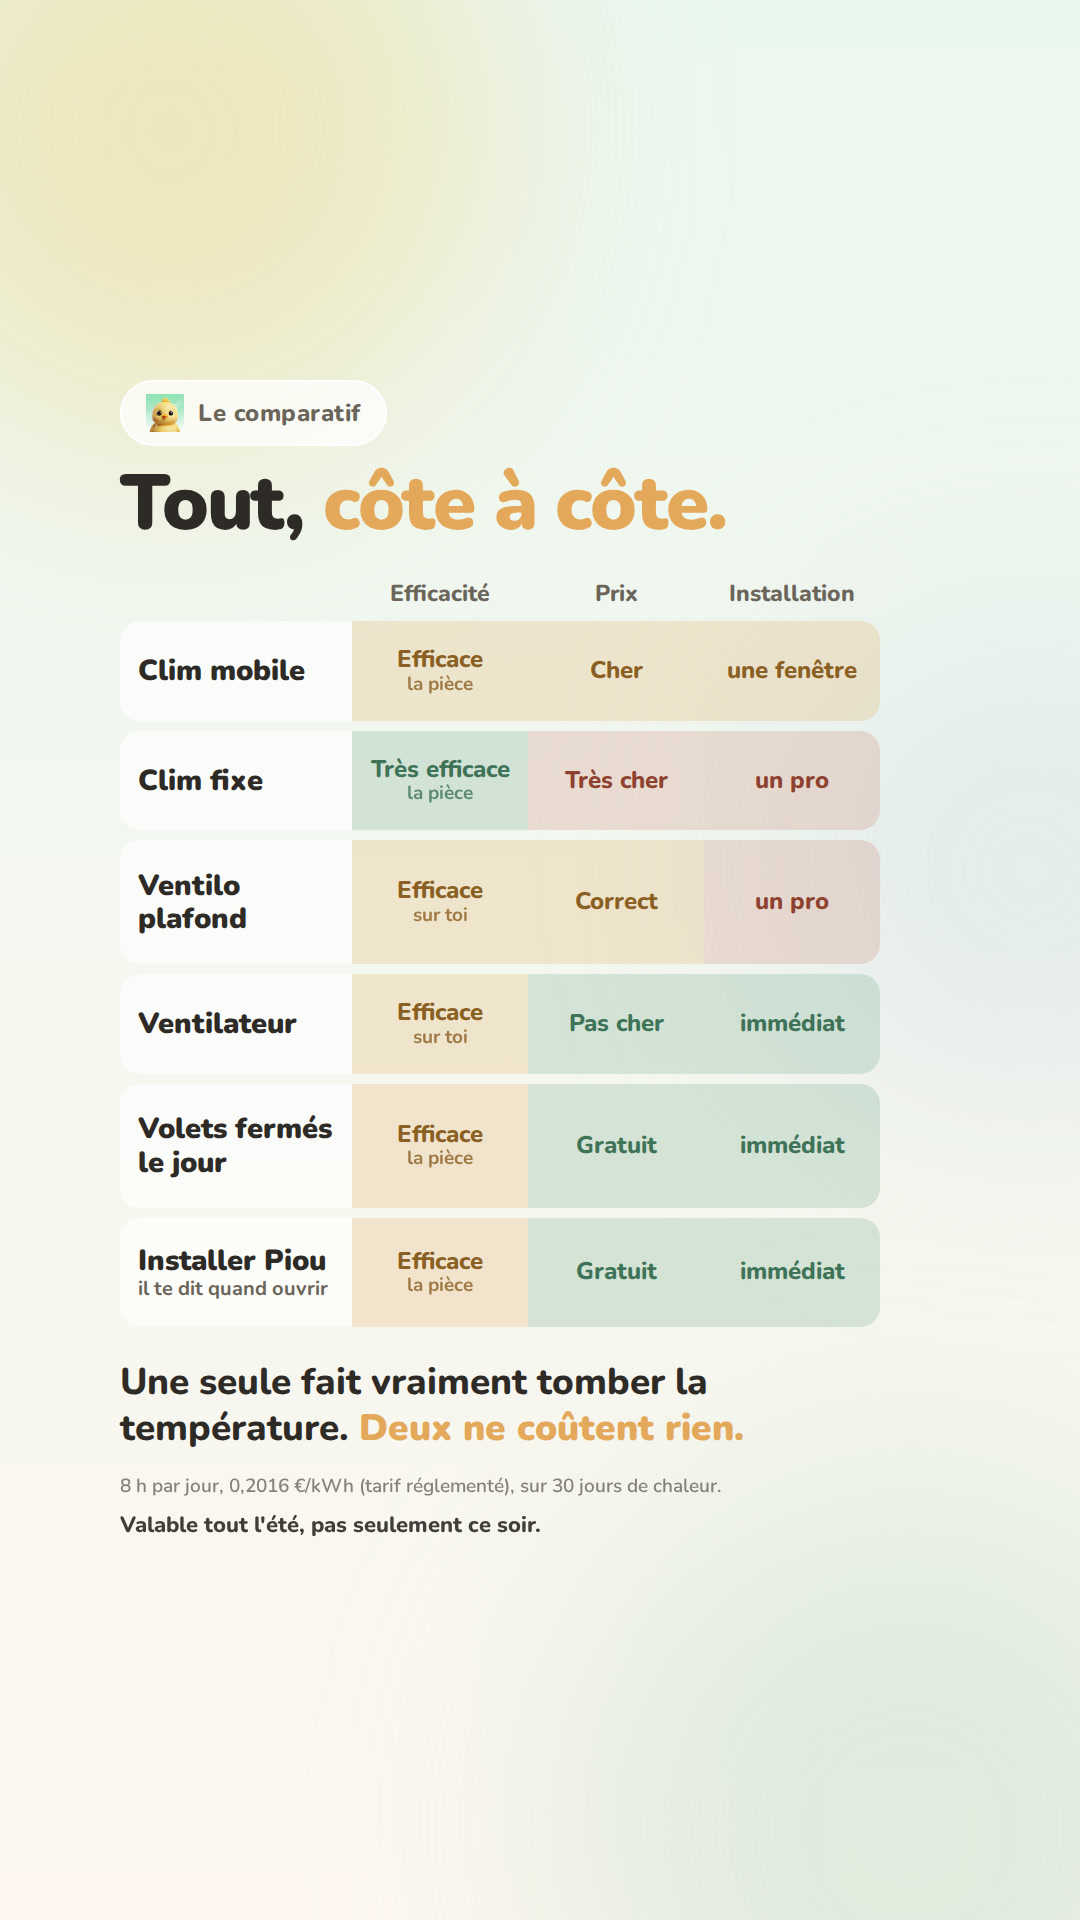
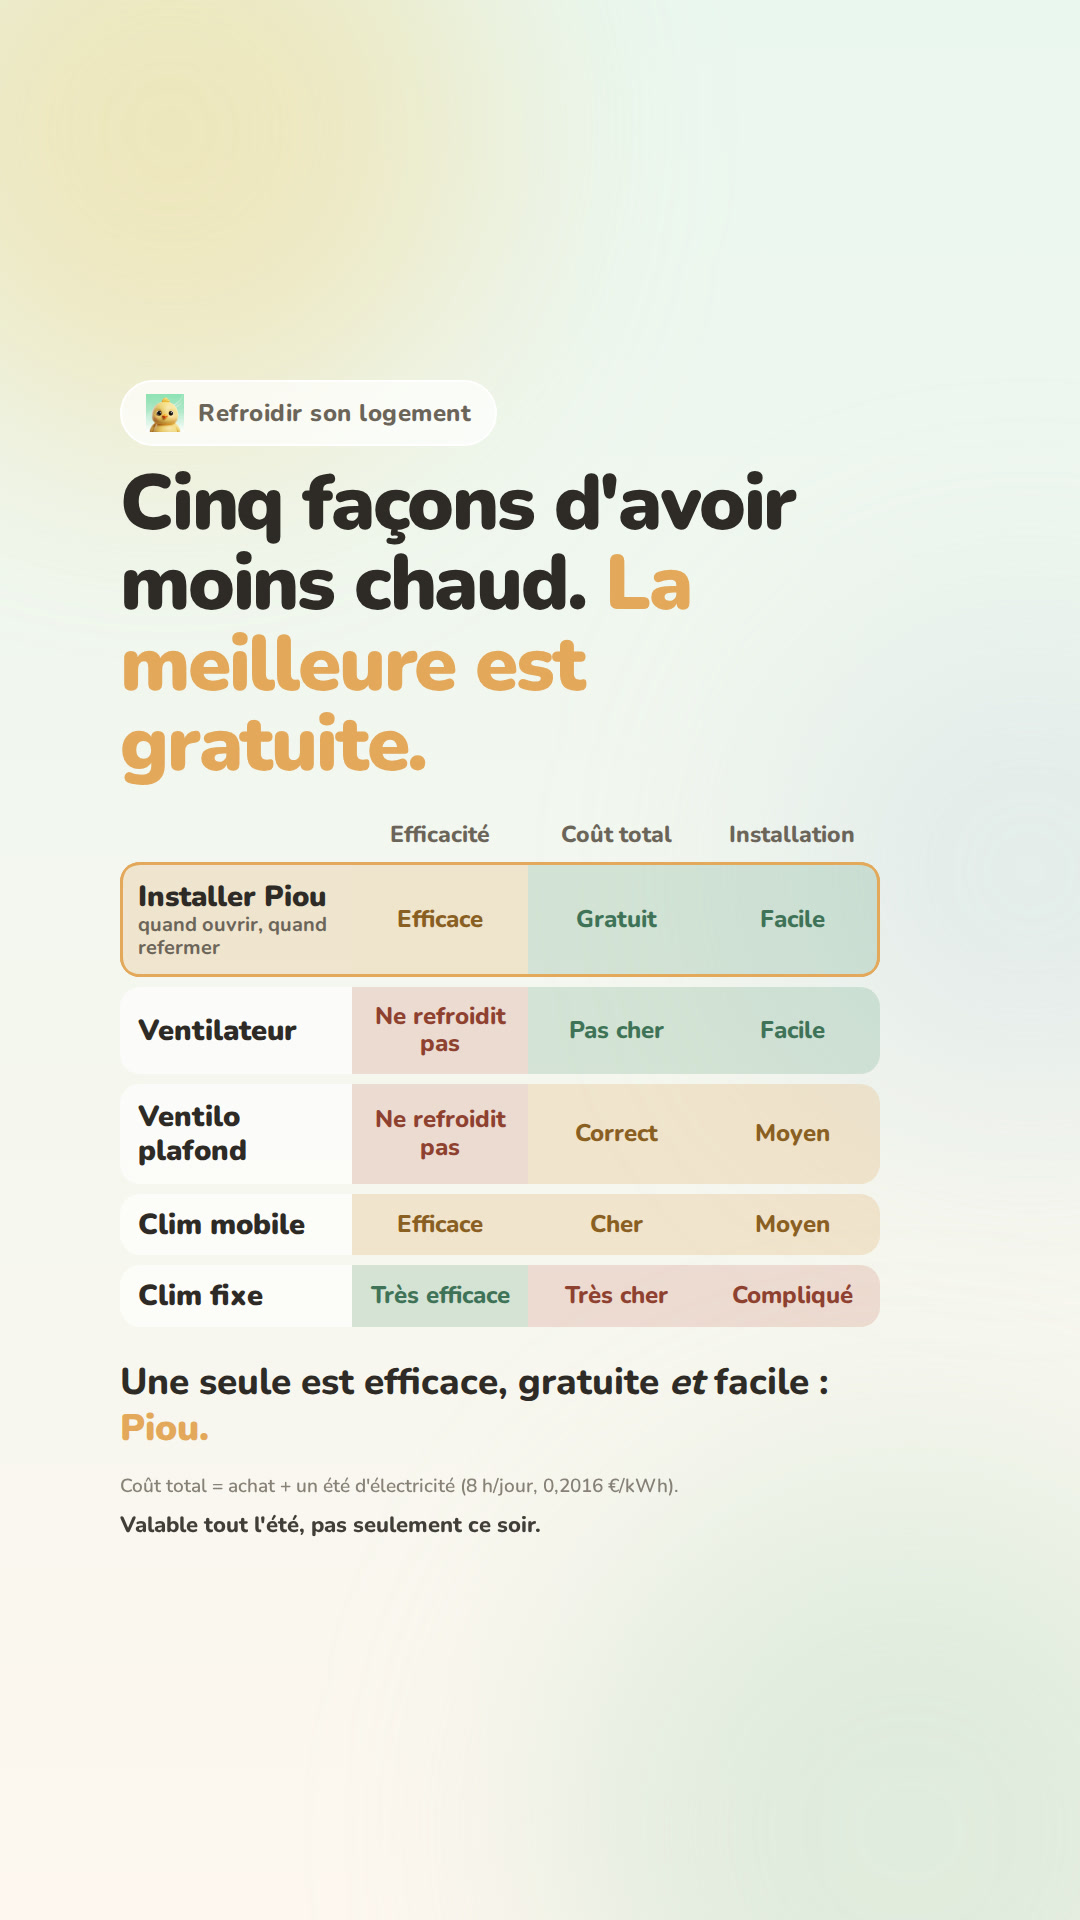
Visuels du 2026-08-15 (1-refroidir)

Changed region(s): [[0.0917, 0.1875, 0.825, 0.7812]]

diff --git a/daily/2026-08-15/index.html b/daily/2026-08-15/index.html
@@ -142,12 +142,12 @@ Piou est disponible sur l'App Store (iPhone).
         <button class="zip">Télécharger le .zip</button>
       </div>
       <details>
-        <summary>La légende (1272 caractères)</summary>
+        <summary>La légende (1539 caractères)</summary>
         <pre class="caption">Un été de climatiseur mobile coûte 24 fois un été de ventilateur.
 
 Valable tout l'été, pas seulement ce soir.
 
-Six façons de rafraîchir un logement, comparées sur trois colonnes : ce que ça refroidit, ce que ça coûte, ce qu'il faut pour l'installer. Les montants exacts, que l'image ne porte pas : clim fixe 1500 à 3000 € à l'achat, clim mobile 300 à 600 €, ventilateur de plafond 80 à 200 €, ventilateur 20 à 60 €, volets et rideaux 0 à 150 € si tu dois en poser, Piou 0 €. Et chaque été en électricité : clim mobile 48 €, clim fixe 39 €, ventilateur de plafond 3 €, ventilateur 2 €, le reste rien — oui, une clim mobile coûte moins cher à l'achat qu'une fixe et plus cher chaque été, parce que son tuyau laisse rentrer l'air chaud. Un été de climatiseur mobile : 48 €. Un été de ventilateur : 2 €. Et surtout la distinction que presque tout le monde rate : un ventilateur ne baisse PAS la température d'une pièce, il rafraîchit la peau. Au-dessus de 35 degrés il brasse de l'air chaud et ne suffit plus. Toi, tu as quoi chez toi ?
+Cinq façons de rafraîchir un logement, comparées sur trois colonnes : ce que ça refroidit, ce que ça coûte, ce qu'il faut pour l'installer. Les montants exacts, que l'image ne porte pas : clim fixe 1500 à 3000 € à l'achat, clim mobile 300 à 600 €, ventilateur de plafond 80 à 200 €, ventilateur 20 à 60 €, Piou 0 €. Et chaque été en électricité : clim mobile 48 €, clim fixe 39 €, ventilateur de plafond 3 €, ventilateur 2 €, Piou rien — oui, une clim mobile coûte moins cher à l'achat qu'une fixe et plus cher chaque été, parce que son tuyau laisse rentrer l'air chaud. Un été de climatiseur mobile : 48 €. Un été de ventilateur : 2 €. Et surtout la distinction que presque tout le monde rate : un ventilateur ne baisse PAS la température d'une pièce, il rafraîchit la peau. Au-dessus de 35 degrés il brasse de l'air chaud et ne suffit plus. Le geste qui n'est pas dans le tableau, parce que ce n'est pas un équipement mais une habitude : fermer volets et rideaux du côté du soleil. C'est le meilleur rapport effort/résultat de la liste, et celui qu'on rate le plus souvent, parce qu'il faut fermer AVANT que le soleil tape, pas quand la pièce est déjà chaude. Toi, tu as quoi chez toi ?
 
 Coûts à l'usage calculés sur 8 h par jour, 0,2016 €/kWh (tarif réglementé), sur 30 jours de chaleur. Les prix d'achat sont des ordres de grandeur.
 
